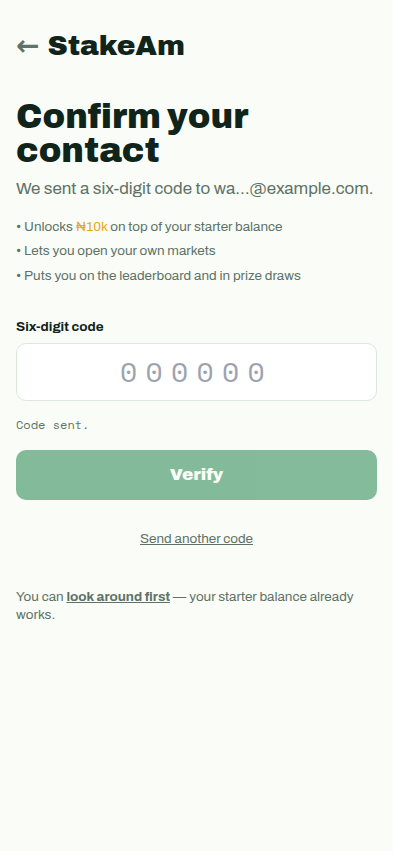
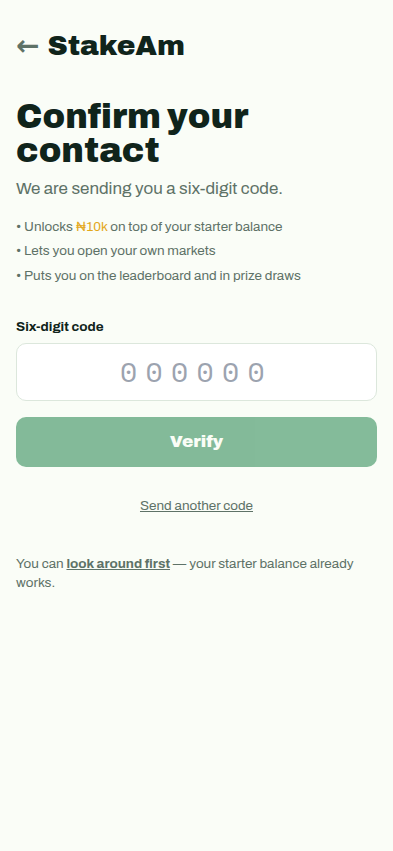
fix(auth): stop serving the verification code to the session it verifies
Two faults, both found by a real deployment where nobody received a code.

**The code was readable through the session it was proving.**
`contact_verification` went out on the `in_app` channel as well as email and
SMS, and the inbox endpoint is authenticated by exactly the session trying to
prove itself. Anyone who signed up with an address they did not own could read
their own code out of the app and take Tier 1 — the signup bonus, market
creation, leaderboards, prize eligibility. A code that travels back down the
channel it is verifying is not a second factor, it is a formality. In-app is
gone from that notification type. The row is still written for the channels
that were tried, because "we told them" has to stay checkable, and a support
agent reading a live code back to a caller would be the same hole with a person
in it, so that is not a use this supports either.

**A code that reached nobody was reported as sent.** With no SMTP_URL and no
TERMII_KEY — the state of a fresh deployment — the API answered `{"sent":true}`
and the person waited on an inbox that would never fill. Delivery is
best-effort everywhere else by design, because a market must settle whether or
not an SMS gateway is up; a verification code with nowhere to go is not a
courtesy that failed, it is a signup that cannot finish. `notify` now reports
what it managed to send, and the endpoint answers 503 with a message the screen
[…]

Changed region(s): [[0.0305, 0.4888, 0.9771, 0.7333], [0.1221, 0.2139, 0.9466, 0.2444]]

diff --git a/apps/api/src/notifications/verification-delivery.integration.test.ts b/apps/api/src/notifications/verification-delivery.integration.test.ts
@@ -1,0 +1,111 @@
+import { PrismaClient } from '@prisma/client';
+import { afterAll, beforeAll, beforeEach, describe, expect, it } from 'vitest';
+
+import type { PrismaService } from '../prisma/prisma.service';
+import { resetDatabase } from '../testing/reset';
+import { EmailSender } from './email.sender';
+import { NotificationsService } from './notifications.service';
+import { PushSender } from './push.sender';
+import { SmsSender } from './sms.sender';
+
+/**
+ * Where a verification code is allowed to go, and what happens when it cannot
+ * go anywhere.
+ *
+ * Both of these came out of a real deployment: an environment with no mail
+ * transport told its first user "we sent a code" and then never sent one — and
+ * the reason the account could still have been verified is that the code was
+ * also being served back through the signed-in session, which is the one place
+ * it must never appear.
+ */
+const TEST_DATABASE_URL = process.env['TEST_DATABASE_URL'];
+
+describe.skipIf(!TEST_DATABASE_URL)('verification delivery (integration)', () => {
+  let prisma: PrismaService;
+  let notifications: NotificationsService;
+
+  beforeAll(async () => {
+    prisma = new PrismaClient({
+      datasources: { db: { url: TEST_DATABASE_URL as string } },
+    }) as unknown as PrismaService;
+    await prisma.$connect();
+    notifications = new NotificationsService(
+      prisma,
+      new PushSender(prisma),
+      new EmailSender(),
+      new SmsSender(),
+    );
+  });
+
+  afterAll(async () => {
+    await prisma.$disconnect();
+  });
+
+  beforeEach(async () => {
+    await resetDatabase(prisma);
+  });
+
+  async function account(email: string): Promise<string> {
+    const user = await prisma.user.create({
+      data: { email, pwHash: 'x', tier: 0, contactVerified: false, role: 'user', status: 'active' },
+    });
+    return user.id;
+  }
+
+  it('never puts the code in the in-app inbox', async () => {
+    const userId = await account('inbox@example.com');
+
+    await notifications.notify({
+      userId,
+      type: 'contact_verification',
+      body: 'Your StakeAm code is 123456. It expires shortly.',
+    });
+
+    // The inbox is authenticated by the very session the code exists to verify.
+    // A code readable there is not a second factor: somebody who signed up with
+    // an address they do not own could read their own code out of the app and
+    // take Tier 1 — the bonus, market creation, leaderboards, prizes.
+    const inbox = await notifications.inbox(userId);
+    expect(inbox).toHaveLength(0);
+    expect(JSON.stringify(inbox)).not.toContain('123456');
+
+    // It is still on the record for the channels that were tried, because
+    // "we told them" has to be checkable.
+    const rows = await prisma.notification.findMany({ where: { userId } });
+    expect(rows.length).toBeGreaterThan(0);
+    expect(rows.every((row) => row.channel !== 'in_app')).toBe(true);
+  });
+
+  // Skipped where a transport is configured — the e2e stack runs an SMTP sink,
+  // and this case is specifically about the environment that has none.
+  it.skipIf(process.env['SMTP_URL'] !== undefined && process.env['SMTP_URL'] !== '')(
+    'reports that a code went nowhere rather than claiming it was sent',
+    async () => {
+      // The state a fresh deployment is in: no SMTP_URL, no TERMII_KEY.
+      const userId = await account('nowhere@example.com');
+
+      const outcome = await notifications.notify({
+        userId,
+        type: 'contact_verification',
+        body: 'Your StakeAm code is 654321. It expires shortly.',
+      });
+
+      expect(outcome.delivered).toHaveLength(0);
+      expect(outcome.failed.map((row) => row.failure)).toContain('SMTP_URL is not configured');
+    },
+  );
+
+  it('still reports delivery for the channels that worked', async () => {
+    // An in-app-only notification has a channel that cannot fail: it is a row.
+    const userId = await account('inapp@example.com');
+
+    const outcome = await notifications.notify({
+      userId,
+      type: 'trade_confirmed',
+      body: 'Stake placed.',
+    });
+
+    expect(outcome.delivered).toEqual(['in_app']);
+    expect(outcome.failed).toEqual([]);
+  });
+});

diff --git a/apps/api/src/notifications/notifications.service.ts b/apps/api/src/notifications/notifications.service.ts
@@ -33,12 +33,24 @@ export const NOTIFICATION_TYPES = {
   // §2.8's weekly prize. Email as well: money arriving is worth a record
   // somewhere the recipient can find again.
   prize: { title: 'You won a prize', channels: ['in_app', 'push', 'email'] },
-  // §2.1's Tier 1 gate. Every channel the contact could be: the code has to
-  // reach whichever of email or phone the person signed up with, and the in-app
-  // copy is what a support agent reads back when delivery failed.
+  /*
+   * §2.1's Tier 1 gate. Email and SMS only — deliberately **not** in-app.
+   *
+   * The point of the code is to prove control of the contact. Serving it to the
+   * signed-in session defeats that entirely: the inbox endpoint is authenticated
+   * by the very session trying to prove itself, so anyone who signed up with
+   * somebody else's address could read their own code out of the app and take
+   * Tier 1 — and with it the bonus, market creation, leaderboards and prize
+   * eligibility. A code that travels back down the channel it is verifying is
+   * not a second factor, it is a formality.
+   *
+   * It goes to whichever of email or phone the person signed up with. A support
+   * agent reading a live code back to a caller would be the same hole with a
+   * human in it, so that is not a use this supports either.
+   */
   contact_verification: {
     title: 'Your verification code',
-    channels: ['in_app', 'email', 'sms'],
+    channels: ['email', 'sms'],
   },
   rg_confirmation: {
     title: 'Your limits changed',
@@ -49,6 +61,12 @@ export const NOTIFICATION_TYPES = {
 } as const satisfies Record<string, { title: string; channels: readonly NotificationChannel[] }>;
 
 export type NotificationType = keyof typeof NOTIFICATION_TYPES;
+
+/** What a `notify` call actually managed to send, and what it did not. */
+export interface NotifyOutcome {
+  readonly delivered: readonly NotificationChannel[];
+  readonly failed: readonly { channel: NotificationChannel; failure: string }[];
+}
 
 export interface NotifyInput {
   readonly userId: string;
@@ -78,13 +96,24 @@ export class NotificationsService {
     private readonly sms: SmsSender,
   ) {}
 
-  async notify(input: NotifyInput): Promise<void> {
+  /**
+   * Send, and say what happened.
+   *
+   * The return value exists for the callers where delivery is the point rather
+   * than a courtesy — a verification code with nowhere to go is not a
+   * notification that failed quietly, it is a signup that cannot complete, and
+   * the person waiting deserves to be told that instead of "sent".
+   */
+  async notify(input: NotifyInput): Promise<NotifyOutcome> {
     const definition = NOTIFICATION_TYPES[input.type];
+    const delivered: NotificationChannel[] = [];
+    const failed: { channel: NotificationChannel; failure: string }[] = [];
+
     const user = await this.prisma.user.findUnique({
       where: { id: input.userId },
       select: { email: true, phone: true },
     });
-    if (user === null) return;
+    if (user === null) return { delivered, failed };
 
     const preferences = await this.prisma.notificationPreference.findMany({
       where: { userId: input.userId },
@@ -104,6 +133,9 @@ export class NotificationsService {
         phone: user.phone,
       });
 
+      if (failure === null) delivered.push(channel);
+      else failed.push({ channel, failure });
+
       await this.prisma.notification.create({
         data: {
           userId: input.userId,
@@ -118,6 +150,8 @@ export class NotificationsService {
         },
       });
     }
+
+    return { delivered, failed };
   }
 
   /** The in-app inbox. */

diff --git a/apps/api/src/http/auth.controller.ts b/apps/api/src/http/auth.controller.ts
@@ -1,4 +1,13 @@
-import { BadRequestException, Body, Controller, Get, Post, Req, UseGuards } from '@nestjs/common';
+import {
+  BadRequestException,
+  Body,
+  Controller,
+  Get,
+  Post,
+  Req,
+  ServiceUnavailableException,
+  UseGuards,
+} from '@nestjs/common';
 import { IsBoolean, IsEmail, IsOptional, IsString, Length, MinLength } from 'class-validator';
 
 import { AnalyticsService } from '../analytics/analytics.service';
@@ -7,6 +16,7 @@ import { JwtGuard, type RequestWithUser } from '../auth/jwt.guard';
 import { OtpError, OtpService } from '../auth/otp.service';
 import { TokenRevocationService } from '../auth/token-revocation.service';
 import { RateLimit, RateLimitGuard } from '../hardening/rate-limit.guard';
+import { logger } from '../logger';
 import { NotificationsService } from '../notifications/notifications.service';
 import { PrismaService } from '../prisma/prisma.service';
 import { WalletService } from '../wallet/wallet.service';
@@ -149,9 +159,10 @@ export class AuthController {
       throw new BadRequestException('this account has no contact to verify');
     }
 
+    let outcome;
     try {
       const code = await this.otp.issue(contact);
-      await this.notifications.notify({
+      outcome = await this.notifications.notify({
         userId,
         type: 'contact_verification',
         body: `Your StakeAm code is ${code}. It expires shortly — nobody from StakeAm will ever ask you for it.`,
@@ -159,6 +170,26 @@ export class AuthController {
     } catch (error) {
       if (error instanceof OtpError) throw new BadRequestException(error.message);
       throw error;
+    }
+
+    // Nothing left the building. Delivery is best-effort everywhere else in the
+    // product — a market must settle whether or not an SMS gateway is up — but
+    // a verification code that reached nobody is not a courtesy that failed, it
+    // is a signup that cannot finish. Saying "sent" here leaves somebody
+    // refreshing an inbox that will never fill, which is precisely what an
+    // environment with no mail transport configured does to its first user.
+    if (outcome.delivered.length === 0) {
+      // The code is unusable, so it must not hold the resend cooldown against a
+      // retry: the operator's fix is to configure a channel, and the next
+      // attempt should go out the moment they have.
+      await this.otp.revoke(contact);
+      logger.error(
+        { userId, failures: outcome.failed.map((row) => `${row.channel}: ${row.failure}`) },
+        'verification code could not be delivered on any channel',
+      );
+      throw new ServiceUnavailableException(
+        'we could not send your code — no delivery channel is available. Please contact support.',
+      );
     }
 
     return { sent: true, contact: maskContact(contact) };

diff --git a/apps/api/src/main.ts b/apps/api/src/main.ts
@@ -45,6 +45,19 @@ async function bootstrap(): Promise<void> {
   // Share the HTTP server with socket.io rather than opening a second port.
   app.get(RealtimeGateway).attach(app.getHttpServer());
   logger.info({ port: env.PORT, env: env.NODE_ENV }, 'stakeam api listening');
+
+  // Say it at boot, not when the first person is stuck on the verify screen.
+  // §2.1's Tier 1 needs a code to reach a real inbox or handset; with neither
+  // transport configured the platform runs perfectly and nobody can finish
+  // signing up, which looks like a product bug and is a configuration one.
+  const smtp = env.SMTP_URL !== undefined && env.SMTP_URL.length > 0;
+  const sms = env.TERMII_KEY !== undefined && env.TERMII_KEY.length > 0;
+  if (!smtp && !sms) {
+    logger.warn(
+      'neither SMTP_URL nor TERMII_KEY is set — verification codes cannot be delivered, ' +
+        'so no account can reach Tier 1. Tier 0 signup and trading are unaffected.',
+    );
+  }
 }
 
 bootstrap().catch((error: unknown) => {

diff --git a/apps/api/src/auth/otp.service.ts b/apps/api/src/auth/otp.service.ts
@@ -66,6 +66,16 @@ export class OtpService {
   }
 
   /**
+   * Throw a code away.
+   *
+   * For the case where the code was issued but could not be delivered: it is
+   * unusable, so it must not hold the resend cooldown against the next attempt.
+   */
+  async revoke(contact: string): Promise<void> {
+    await this.redis.del(OtpService.key(contact));
+  }
+
+  /**
    * Verify and consume. A correct code is single-use; a wrong one burns an
    * attempt, and the record is dropped once the cap is reached so a brute force
    * has to start over against a new code it cannot predict.

diff --git a/docs/launch-checklist.md b/docs/launch-checklist.md
@@ -89,9 +89,10 @@ build plan lists; all four are things I would want closed before real money.
 | Item                                     | Status   | Owner                | Note                                                                                                                                                                                                                                                                               |
 | ---------------------------------------- | -------- | -------------------- | ---------------------------------------------------------------------------------------------------------------------------------------------------------------------------------------------------------------------------------------------------------------------------------- |
 | Tokens in `localStorage`                 | **Open** | Claude, on your word | An XSS anywhere exposes sessions. The fix is httpOnly cookies + CSRF, which changes the session model — worth doing with licensed-phase auth, and `src/lib/session.ts` is the single seam it goes through                                                                          |
-| JWTs cannot be revoked                   | **Open** | Claude, on your word | A stolen staff token keeps read access until expiry. A denylist closes it                                                                                                                                                                                                          |
-| TOTP secrets unencrypted at rest         | **Open** | Claude, on your word | A database leak compromises second factors along with first. Needs encryption with a key the database never sees                                                                                                                                                                   |
-| No signup/login on mobile viewport check | **Open** | Claude               | Built and working; never viewed narrow                                                                                                                                                                                                                                             |
+| JWTs cannot be revoked                   | **Done** | Claude               | Closed: `jti` denylist plus a per-account `iat` cutoff (`apps/api/src/auth/token-revocation.service.ts`), so one token or every token for an account can be killed. Fails open on a Redis outage rather than locking everybody out                                                 |
+| TOTP secrets unencrypted at rest         | **Done** | Claude               | Closed: AES-256-GCM under `SECRETS_KEY` (`apps/api/src/auth/secret-box.ts`), a key the database never sees. Rotating it locks enrolled staff out of their authenticator, so it is generated once per environment and kept                                                          |
+| No signup/login on mobile viewport check | **Done** | Claude               | Closed: `apps/web/e2e/auth-screens.spec.ts` runs both auth screens at 393px, checking 44px tap targets and no sideways scroll. Looking at them found a 16px checkbox gating the only button on the screen                                                                          |
+| No mail or SMS transport configured      | **Open** | You                  | Nobody can reach Tier 1 without one: the code goes to email or SMS and nowhere else, and the API now refuses to claim it sent one that no channel took. Set `SMTP_URL` or `TERMII_KEY` on the deployed API. Tier 0 signup and trading work without it                              |
 | `verify` not a required status check     | **Open** | You                  | CI runs on every PR but nothing blocks a merge when it is red. Repo setting: Settings → Branches → `main`. Worth requiring all four checks (verify, e2e journeys, images build, dependency audit). I cannot set this — the session's token is refused by the branch-protection API |
 
 ---

diff --git a/docs/walkthrough/README.md b/docs/walkthrough/README.md
@@ -6,10 +6,16 @@ a real stack. Regenerated by:
 ```bash
 ./scripts/dev/ensure-services.sh
 psql "$TEST_DATABASE_URL" -f scripts/dev/seed-walkthrough.sql
-pnpm --filter @stakeam/api start &   # :3001
-pnpm --filter @stakeam/web start &   # :3000
+node scripts/dev/smtp-sink.mjs &                        # :1025, accepts and discards
+SMTP_URL=smtp://127.0.0.1:1025 \
+  pnpm --filter @stakeam/api start &                    # :3001
+pnpm --filter @stakeam/web start &                      # :3000
 pnpm --filter @stakeam/web exec playwright test walkthrough
 ```
+
+The mail sink is not optional. The API refuses to claim it sent a verification
+code when no channel took it, so an environment without a transport cannot
+complete Tier 1 — which is true of a real deployment too, and is the point.
 
 The spec is `apps/web/e2e/walkthrough.spec.ts`. Each step asserts the one fact
 that would make it a lie if it were false, then screenshots the result — so
@@ -84,7 +90,27 @@ race — the e2e journey had been navigating on the click, which measured its ow
 timing rather than the product, and went red on CI the first time a runner was
 slow.
 
-**9. `pnpm start` ran a server the deployment never uses.** Next warns that
+**9. The verification code was readable through the session it was verifying.**
+`contact_verification` went out on the `in_app` channel as well as email and
+SMS, and the inbox endpoint is authenticated by exactly the session trying to
+prove itself. Somebody who signed up with an address they did not own could
+read their own code out of the app and take Tier 1 — the signup bonus, market
+creation, leaderboards, prize eligibility. A code that travels back down the
+channel it is verifying is not a second factor. In-app is gone from that
+notification type; the row is still written for the channels that were tried,
+because "we told them" has to stay checkable.
+
+**10. A code that reached nobody was reported as sent.** With no `SMTP_URL` and
+no `TERMII_KEY` — the state of a fresh deployment — the API answered
+`{"sent": true}` and the person waited on an inbox that would never fill.
+Delivery is best-effort everywhere else by design (a market must settle whether
+or not an SMS gateway is up), but a verification code with nowhere to go is a
+signup that cannot finish. It now returns 503 with a message the screen shows,
+revokes the unusable code so the resend cooldown does not hold a retry against
+the operator's fix, and logs the failure per channel. The API also says so at
+boot rather than waiting for the first user to find out.
+
+**11. `pnpm start` ran a server the deployment never uses.** Next warns that
 `next start` does not support `output: standalone` on every boot. That mismatch
 is how (1) survived.
 
